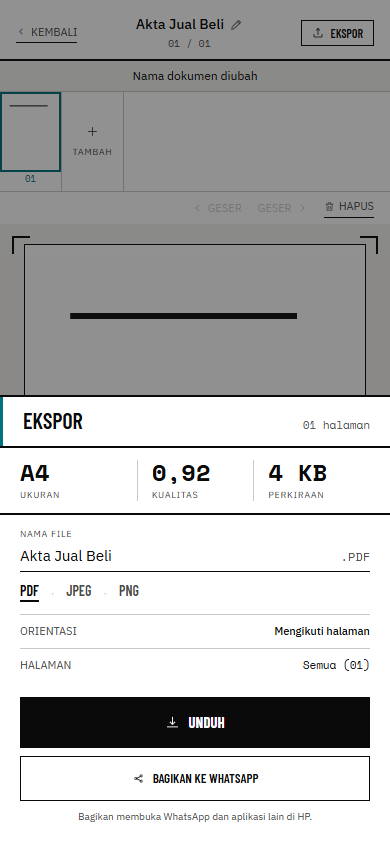
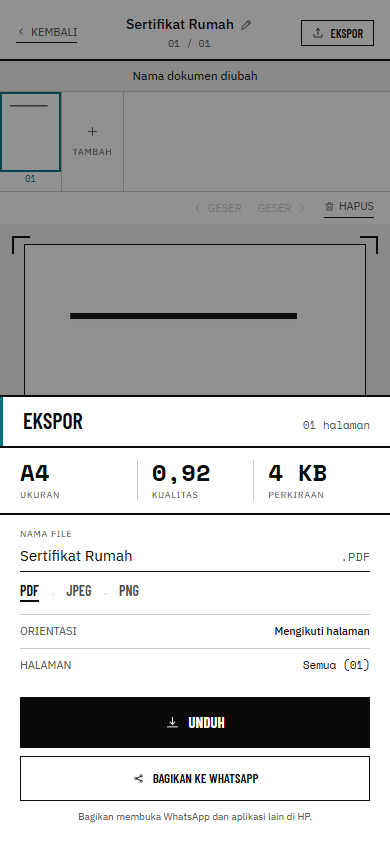
add: rename document ketika export

Changed region(s): [[0.3385, 0.0, 0.6154, 0.0616], [0.0308, 0.6469, 0.3385, 0.6777]]

diff --git a/src/components/ExportPanel.tsx b/src/components/ExportPanel.tsx
@@ -10,11 +10,13 @@ interface Props {
   pages: Halaman[]
   /** Dokumen name, so renaming in the editor carries into the export filename. */
   suggested: string
+  /** Renaming here renames the Dokumen too, not just the exported file. */
+  onRename: (name: string) => void
   onClose: () => void
 }
 
 /** Export sheet: name, format, then Bagikan (WA etc.) or Unduh. */
-export default function ExportPanel({ pages, suggested, onClose }: Props) {
+export default function ExportPanel({ pages, suggested, onRename, onClose }: Props) {
   const [name, setName] = useState(suggested || defaultName())
   const [format, setFormat] = useState<Format>('pdf')
   const [busy, setBusy] = useState(false)
@@ -29,7 +31,14 @@ export default function ExportPanel({ pages, suggested, onClose }: Props) {
 
   const ext = format === 'png' ? '.PNG' : format === 'jpeg' ? '.JPG' : '.PDF'
 
+  // Blur and every export path persist the name, so the Dokumen keeps it.
+  const commit = () => {
+    const next = name.trim().slice(0, 80)
+    if (next && next !== suggested) onRename(next)
+  }
+
   const make = async (): Promise<{ files: File[]; filename: string }> => {
+    commit()
     const safe = name.trim() || defaultName()
     if (format === 'pdf') {
       const blob = await buildPdf(pages, safe)
@@ -92,6 +101,14 @@ export default function ExportPanel({ pages, suggested, onClose }: Props) {
               id="export-name"
               value={name}
               onChange={(e) => setName(e.target.value)}
+              onBlur={commit}
+              onKeyDown={(e) => {
+                if (e.key === 'Enter') {
+                  commit()
+                  e.currentTarget.blur()
+                }
+              }}
+              maxLength={80}
               className="min-w-0 flex-1 bg-transparent text-[15px] outline-none"
             />
             <span className="num shrink-0 text-[12px] text-ink-2">{ext}</span>

diff --git a/src/components/Editor.tsx b/src/components/Editor.tsx
@@ -130,6 +130,13 @@ export default function Editor({ id, onBack }: Props) {
     await save(doc, next)
   }
 
+  // Header and export sheet share this; the Library list renames via putDoc itself.
+  const rename = (name: string) => {
+    if (!doc || name === doc.name) return
+    void save({ ...doc, name }, pages)
+    flash('Nama dokumen diubah')
+  }
+
   const active = useMemo(() => pages.find((p) => p.id === activeId) ?? null, [pages, activeId])
 
   // Rename inline: a dialog for one field is more taps than the field itself.
@@ -147,8 +154,7 @@ export default function Editor({ id, onBack }: Props) {
     if (!doc) return
     const next = draft.trim().slice(0, 80)
     if (!next || next === doc.name) return
-    await save({ ...doc, name: next }, pages)
-    flash('Nama dokumen diubah')
+    rename(next)
   }
 
   if (notFound) {
@@ -279,7 +285,12 @@ export default function Editor({ id, onBack }: Props) {
       )}
 
       {mode === 'export' && (
-        <ExportPanel pages={pages} suggested={doc.name} onClose={() => setMode('view')} />
+        <ExportPanel
+          pages={pages}
+          suggested={doc.name}
+          onRename={rename}
+          onClose={() => setMode('view')}
+        />
       )}
     </div>
   )
